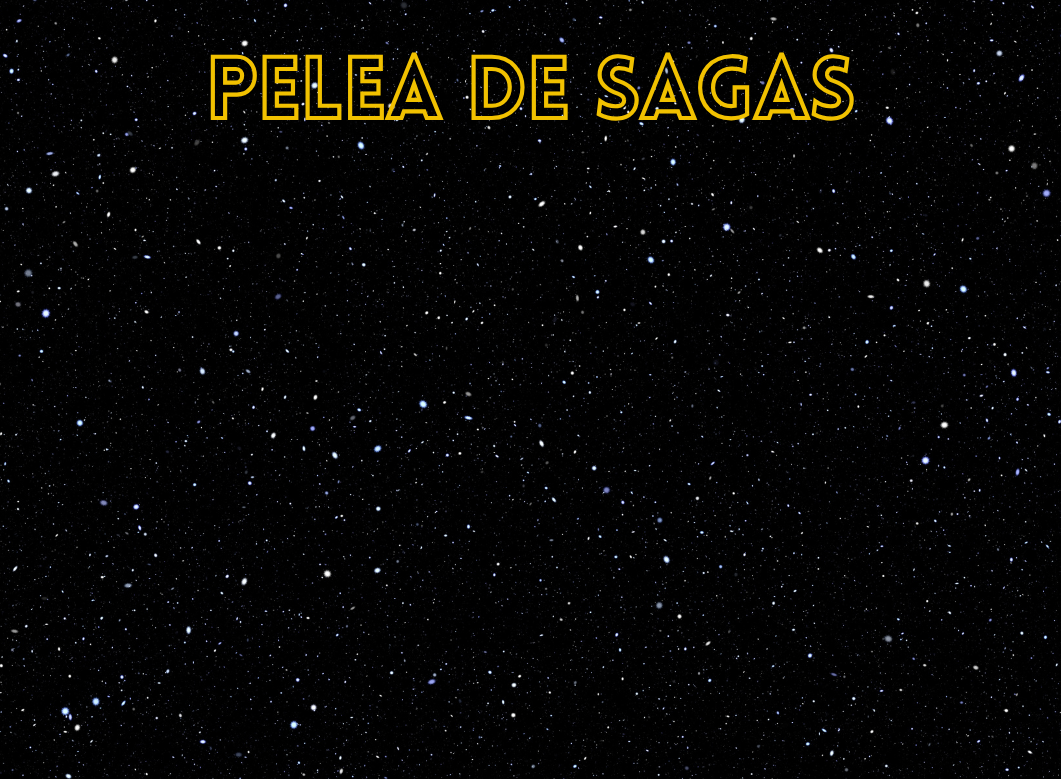
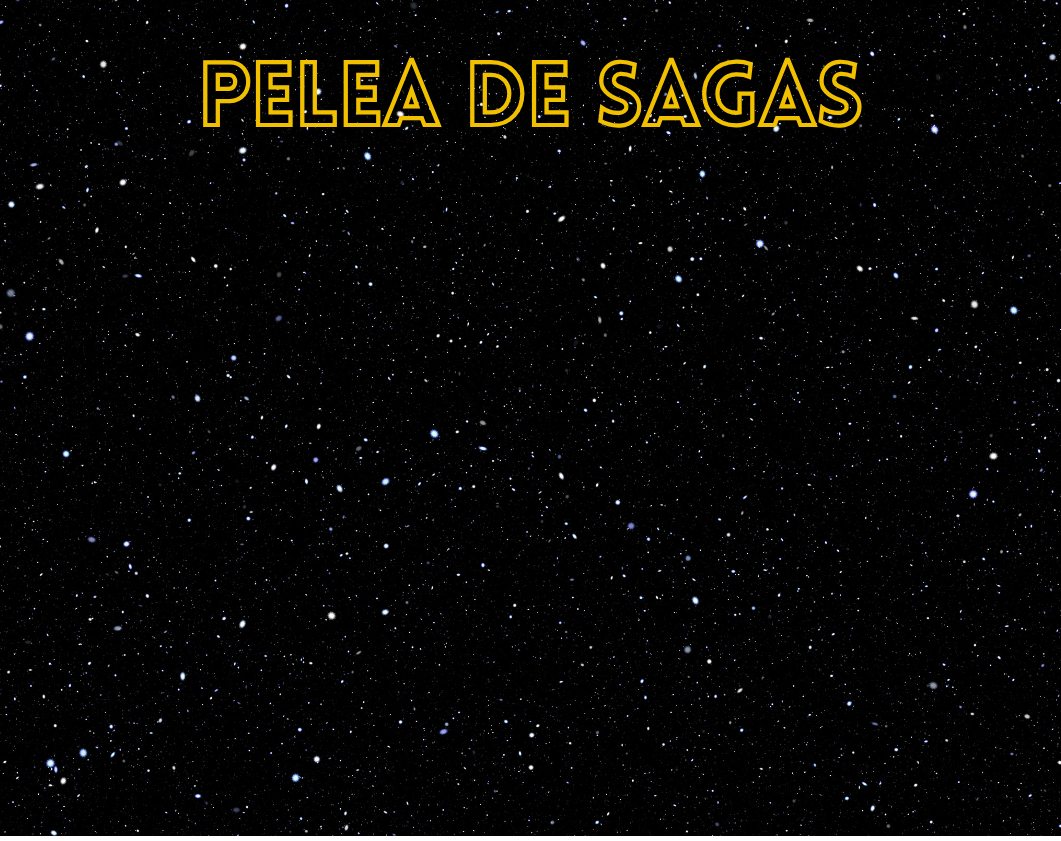
fix: adjust admin sleep timing to display changes correctly🐛

diff --git a/Pelea de sagas/src/Interfaces/Home.java b/Pelea de sagas/src/Interfaces/Home.java
@@ -86,6 +86,8 @@ public class Home extends javax.swing.JFrame {
         ColaH_s1 = new javax.swing.JTextArea();
         stats1 = new javax.swing.JTextArea();
         stats2 = new javax.swing.JTextArea();
+        jLabel7 = new javax.swing.JLabel();
+        sliderTime = new javax.swing.JSlider();
         Fondo = new javax.swing.JLabel();
         character1 = new javax.swing.JLabel();
         character2 = new javax.swing.JLabel();
@@ -103,7 +105,7 @@ public class Home extends javax.swing.JFrame {
                 jButton1ActionPerformed(evt);
             }
         });
-        jPanel1.add(jButton1, new org.netbeans.lib.awtextra.AbsoluteConstraints(430, 700, 200, 60));
+        jPanel1.add(jButton1, new org.netbeans.lib.awtextra.AbsoluteConstraints(830, 740, 180, 60));
 
         status.setFont(new java.awt.Font("Segoe UI", 1, 24)); // NOI18N
         status.setForeground(new java.awt.Color(255, 255, 255));
@@ -166,8 +168,8 @@ public class Home extends javax.swing.JFrame {
 
         jLabel6.setFont(new java.awt.Font("Segoe UI", 1, 18)); // NOI18N
         jLabel6.setForeground(new java.awt.Color(255, 255, 255));
-        jLabel6.setText("Lista de ganadores:");
-        jPanel1.add(jLabel6, new org.netbeans.lib.awtextra.AbsoluteConstraints(240, 640, -1, -1));
+        jLabel6.setText("Velocidad de la IA (en segundos):");
+        jPanel1.add(jLabel6, new org.netbeans.lib.awtextra.AbsoluteConstraints(250, 710, -1, 30));
 
         jwinnersPane.setBackground(new java.awt.Color(0, 0, 0));
         jwinnersPane.setForeground(new java.awt.Color(0, 0, 0));
@@ -272,10 +274,33 @@ public class Home extends javax.swing.JFrame {
         stats2.setBorder(null);
         jPanel1.add(stats2, new org.netbeans.lib.awtextra.AbsoluteConstraints(580, 550, 250, 60));
 
+        jLabel7.setFont(new java.awt.Font("Segoe UI", 1, 18)); // NOI18N
+        jLabel7.setForeground(new java.awt.Color(255, 255, 255));
+        jLabel7.setText("Lista de ganadores:");
+        jPanel1.add(jLabel7, new org.netbeans.lib.awtextra.AbsoluteConstraints(240, 640, -1, -1));
+
+        sliderTime.setBackground(new java.awt.Color(255, 255, 255));
+        sliderTime.setFont(new java.awt.Font("Phosphate", 1, 13)); // NOI18N
+        sliderTime.setForeground(new java.awt.Color(255, 255, 255));
+        sliderTime.setMajorTickSpacing(1);
+        sliderTime.setMaximum(20);
+        sliderTime.setMinimum(1);
+        sliderTime.setPaintLabels(true);
+        sliderTime.setPaintTicks(true);
+        sliderTime.setSnapToTicks(true);
+        sliderTime.setValue(10);
+        sliderTime.setCursor(new java.awt.Cursor(java.awt.Cursor.HAND_CURSOR));
+        sliderTime.addChangeListener(new javax.swing.event.ChangeListener() {
+            public void stateChanged(javax.swing.event.ChangeEvent evt) {
+                sliderTimeStateChanged(evt);
+            }
+        });
+        jPanel1.add(sliderTime, new org.netbeans.lib.awtextra.AbsoluteConstraints(30, 740, 770, 70));
+
         Fondo.setForeground(new java.awt.Color(60, 63, 65));
         Fondo.setIcon(new javax.swing.ImageIcon(getClass().getResource("/Assets/background.png"))); // NOI18N
         Fondo.setText("jLabel1");
-        jPanel1.add(Fondo, new org.netbeans.lib.awtextra.AbsoluteConstraints(0, 0, 1060, 790));
+        jPanel1.add(Fondo, new org.netbeans.lib.awtextra.AbsoluteConstraints(0, 0, 1060, 840));
 
         character1.setFont(new java.awt.Font("Segoe UI", 1, 18)); // NOI18N
         character1.setForeground(new java.awt.Color(255, 255, 255));
@@ -300,7 +325,7 @@ public class Home extends javax.swing.JFrame {
         layout.setVerticalGroup(
             layout.createParallelGroup(javax.swing.GroupLayout.Alignment.LEADING)
             .addGroup(layout.createSequentialGroup()
-                .addComponent(jPanel1, javax.swing.GroupLayout.PREFERRED_SIZE, 784, javax.swing.GroupLayout.PREFERRED_SIZE)
+                .addComponent(jPanel1, javax.swing.GroupLayout.PREFERRED_SIZE, 841, javax.swing.GroupLayout.PREFERRED_SIZE)
                 .addGap(0, 0, Short.MAX_VALUE))
         );
 
@@ -336,6 +361,11 @@ public class Home extends javax.swing.JFrame {
         admin.start();
         ai.start();
     }//GEN-LAST:event_jButton1ActionPerformed
+
+    private void sliderTimeStateChanged(javax.swing.event.ChangeEvent evt) {//GEN-FIRST:event_sliderTimeStateChanged
+        // TODO add your handling code here:
+        ai.setWaitingTime(sliderTime.getValue() * 1000);
+    }//GEN-LAST:event_sliderTimeStateChanged
 
     /**
      * @param args the command line arguments
@@ -401,10 +431,12 @@ public class Home extends javax.swing.JFrame {
     private javax.swing.JLabel jLabel15;
     private javax.swing.JLabel jLabel4;
     private javax.swing.JLabel jLabel6;
+    private javax.swing.JLabel jLabel7;
     private javax.swing.JLabel jLabel8;
     private javax.swing.JLabel jLabel9;
     private javax.swing.JPanel jPanel1;
     private javax.swing.JScrollPane jwinnersPane;
+    private javax.swing.JSlider sliderTime;
     private javax.swing.JLabel starTrekCard;
     private javax.swing.JLabel starWarsCard;
     private javax.swing.JTextArea stats1;

diff --git a/Pelea de sagas/src/Clases/Admin.java b/Pelea de sagas/src/Clases/Admin.java
@@ -51,7 +51,7 @@ public class Admin extends Thread {
                 handleWinner();
                 handleTie();
                 handleCancelled();
-
+                sleep(1500);
                 updateQueues();
                 if (cycle_counter == 2) {
                     cycle_counter = 0;
@@ -64,7 +64,7 @@ public class Admin extends Thread {
 
                     }
                 }
-                sleep(5000);
+                sleep(2000);
 
             } catch (InterruptedException ex) {
                 Logger.getLogger(Admin.class.getName()).log(Level.SEVERE, null, ex);
@@ -74,10 +74,10 @@ public class Admin extends Thread {
     }
 
     public void updateQueues() {
-        saga1.updateBackupQueue();
-        saga2.updateBackupQueue();
         saga1.updateCharactersPriorities();
         saga2.updateCharactersPriorities();
+        saga1.updateBackupQueue();
+        saga2.updateBackupQueue();
     }
 
     public void pickCharacter(Saga saga) {

diff --git a/Pelea de sagas/src/Clases/AI.java b/Pelea de sagas/src/Clases/AI.java
@@ -28,14 +28,16 @@ public class AI extends Thread {
     private int waitingTime;
     private int speed;
     private Character winner;
+    private double speedFactor;
     
     public AI(Saga saga1, Saga saga2) {
         this.counter = 0;
         this.ready = false;
-        waitingTime = 5000;
+        waitingTime = 10000;
         this.saga1 = saga1;
         this.saga2 = saga2;
         this.speed = 1;
+        this.speedFactor = 1;
 
     }
     
@@ -49,7 +51,7 @@ public class AI extends Thread {
                 Home.g.getS1().acquire();
                 status = "Deciding...";
                 Home.status.setText(status);
-                sleep(waitingTime);
+                sleep((int) (waitingTime * speedFactor));
                 
                 double chances = Math.random();
                 if (chances <= 0.4) {

diff --git a/Pelea de sagas/src/Clases/Saga.java b/Pelea de sagas/src/Clases/Saga.java
@@ -67,13 +67,14 @@ public class Saga {
         if (!backupQueue.isEmpty()) {
             double probability = Math.random();
             Character character = (Character) backupQueue.Desencolar().getData();
-            if (probability <= 0.4){
+            if (probability <= 0.4) {
                 character.setPriority(1);
                 highPriorityQueue.Encolar(character);
             } else {
                 backupQueue.Encolar(character);
             }
         }
+        updateAllTextAreas();
 
     }
 
@@ -94,7 +95,6 @@ public class Saga {
                         mediumPriorityQueue.Encolar(character);
                         lowPriorityQueue.delete(aux);
                     }
-                    updateAllTextAreas();
                 }
                 aux = aux.getpNext();
             }
